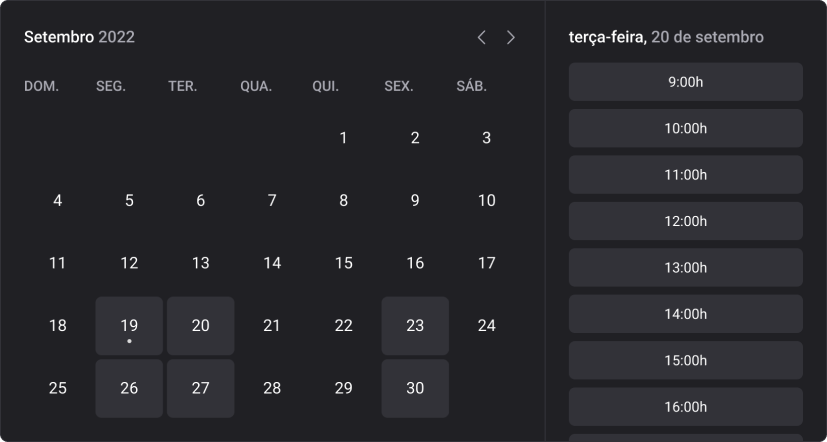
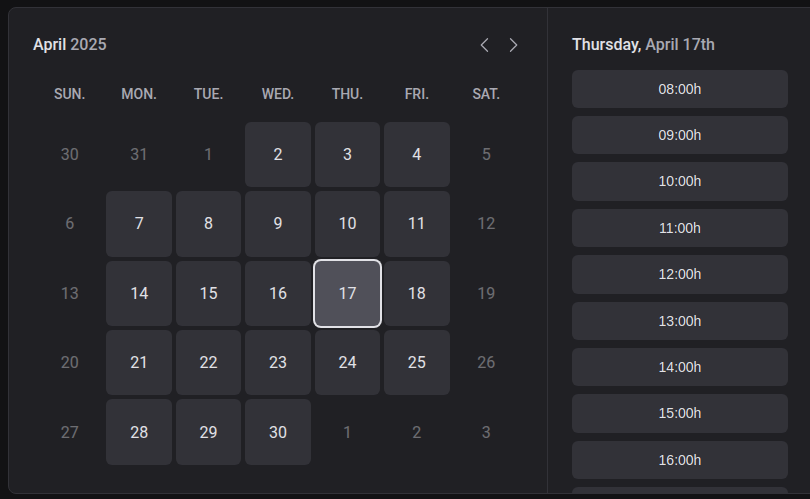
refac: updated app preview to screenshot in english and updated app url in home page

diff --git a/src/pages/home/components/ClaimUsernameForm/index.tsx b/src/pages/home/components/ClaimUsernameForm/index.tsx
@@ -34,7 +34,7 @@ export function ClaimUsernameForm() {
   return (
     <>
       <Form as="form" onSubmit={handleSubmit(handleClaimUsername)}>
-        <TextInput size="sm" prefix="ignite.com/" placeholder="your-user" {...register('username')}/>
+        <TextInput size="sm" prefix="schedulynx.vercel.app/" placeholder="your-user" {...register('username')}/>
         <Button size="sm" type="submit" disabled={isSubmitting}>
           Book User
           <ArrowRight />
